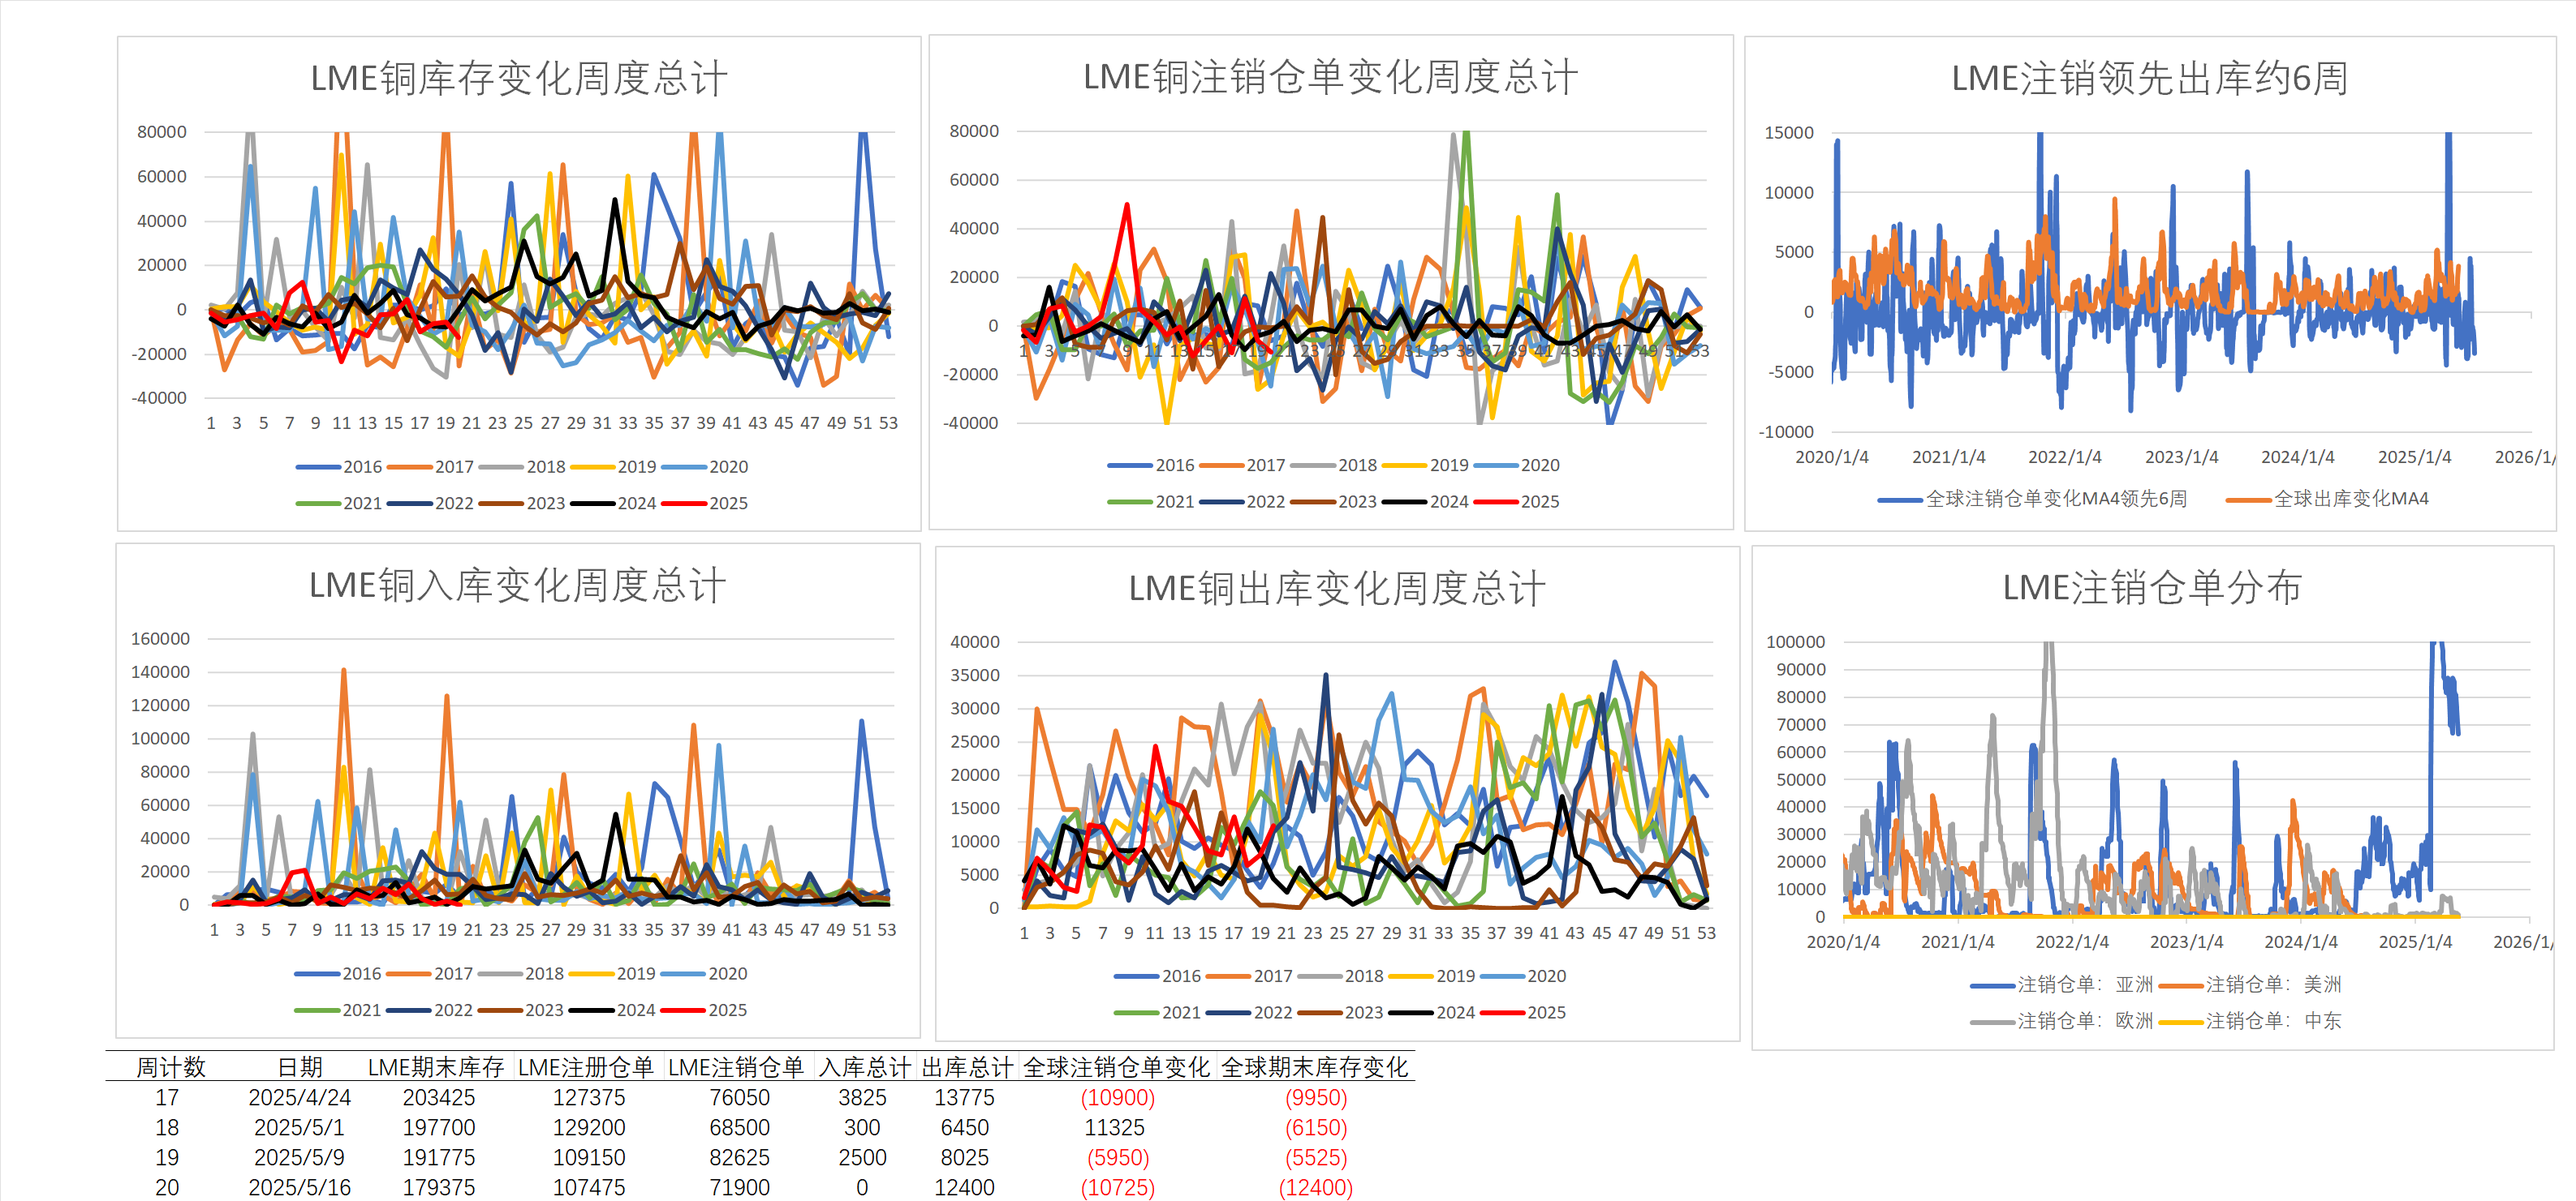
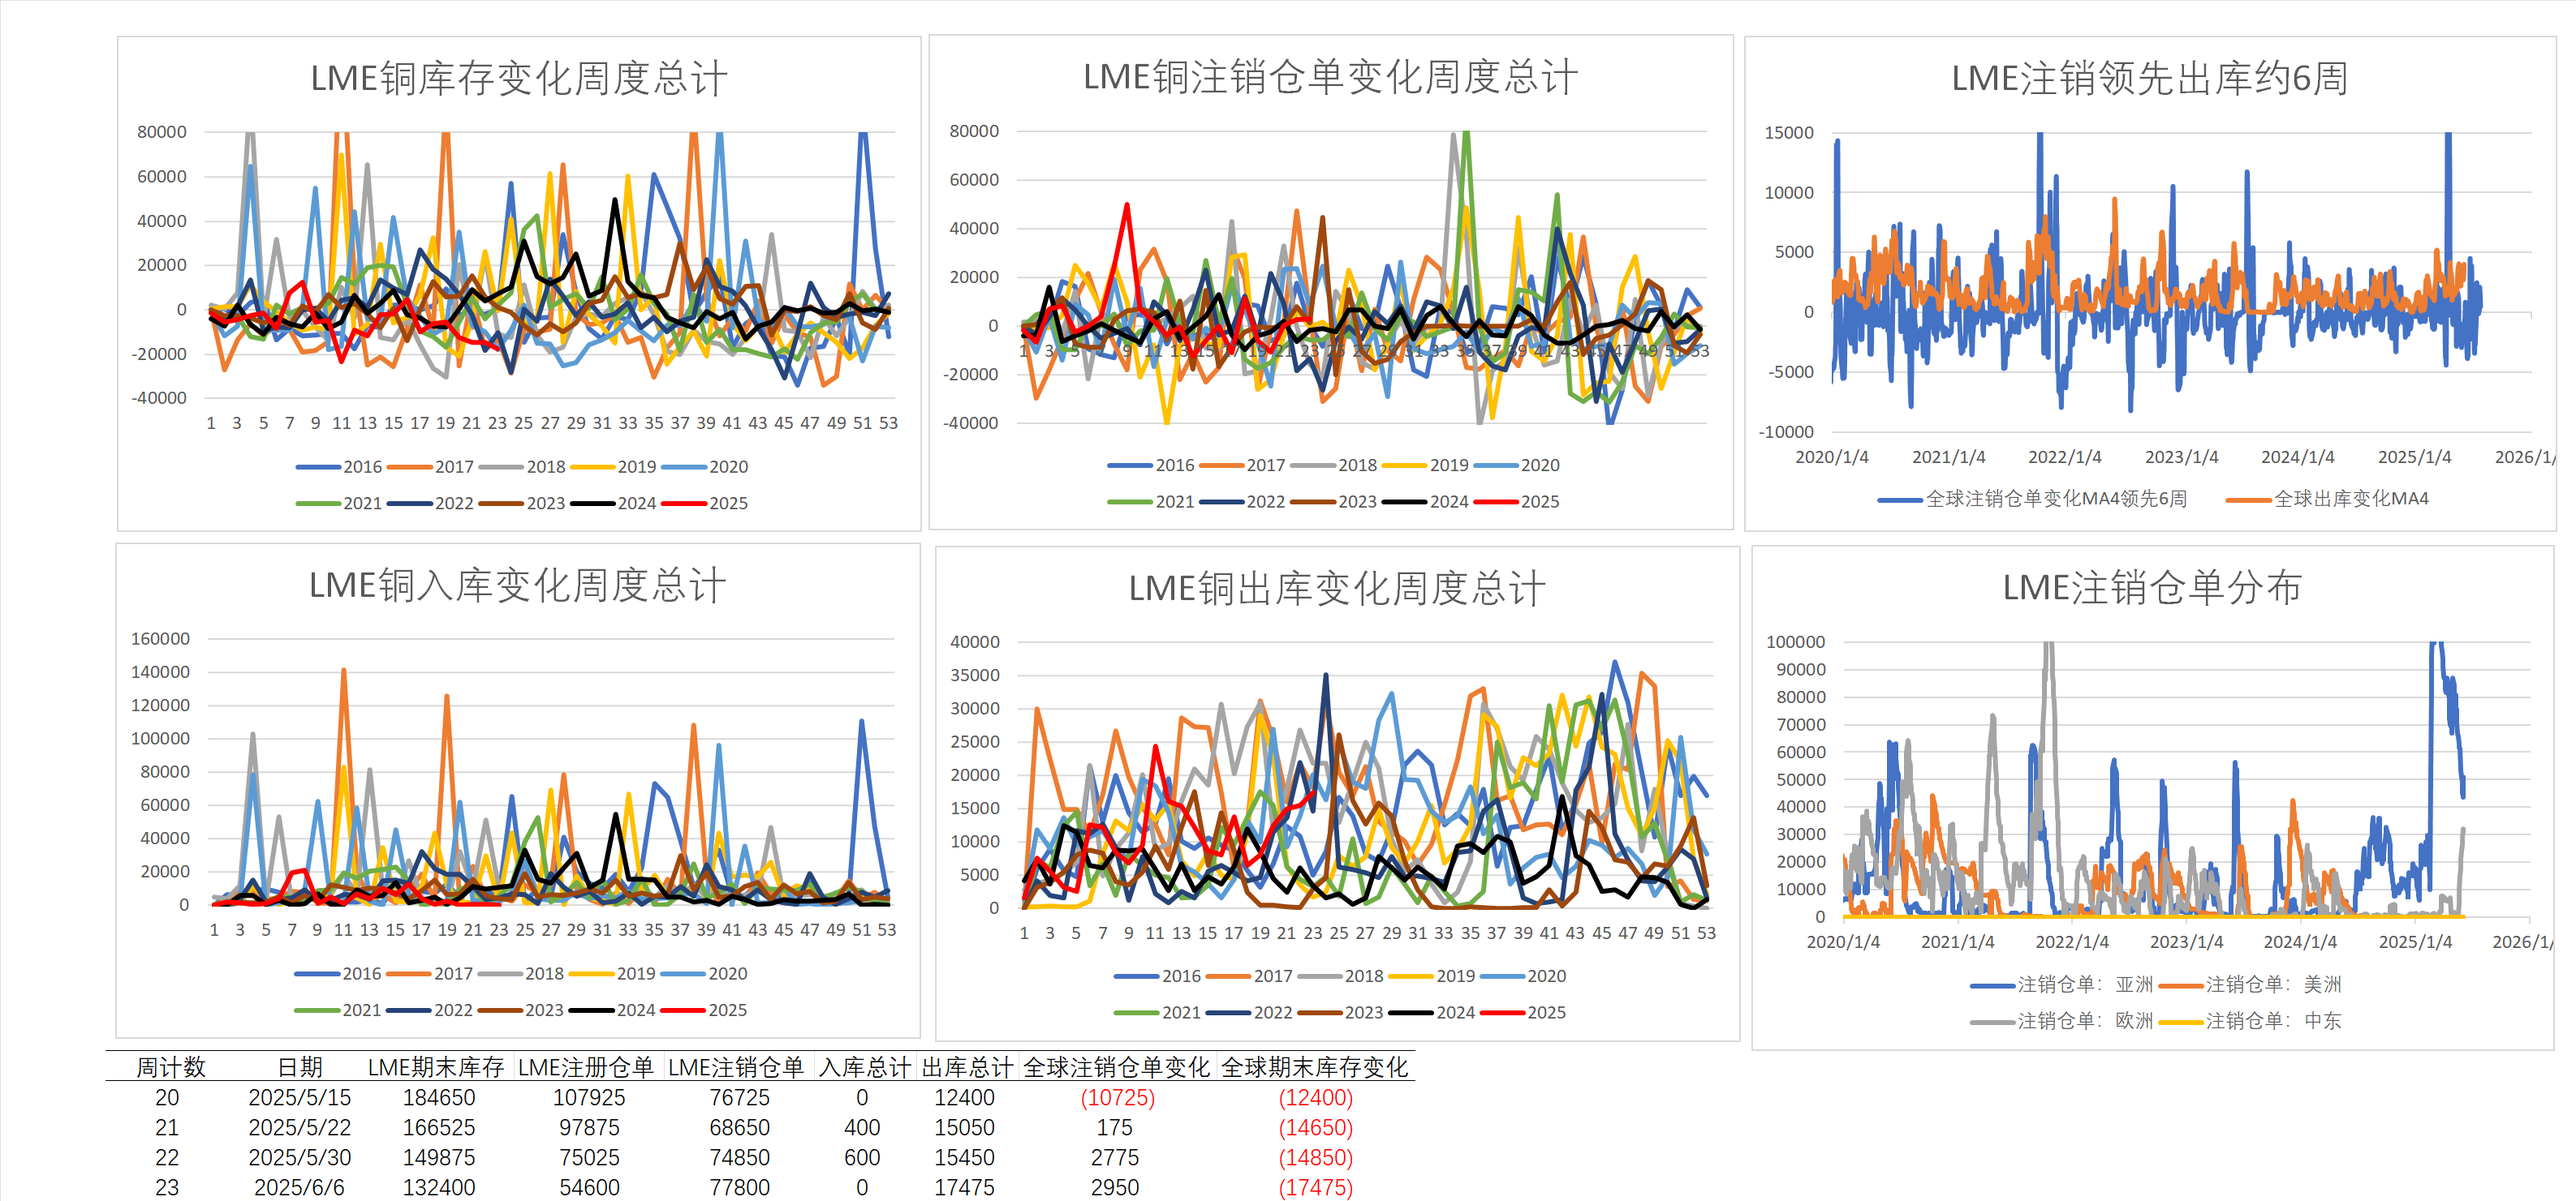
yfwu-main 2025-6-8:17:43:0

diff --git a/铜市场分析20250608.md b/铜市场分析20250608.md
@@ -1,9 +1,9 @@
 详细图表更新： https://yingfengwu-cn.github.io/qztz/
 
-<font color = red>**总结：（电缆）消费延续季节性走弱至同比持平，但是电铜消费同比仍显著正增（原再生低价差仍在延续，废替精明显），本周LME结构和沪伦价差继续显著内弱外强，提示国内下游买盘驱动行情告一段落，等待回调做多。**</font>
+<font color = red>**总结：短期看回调：（电缆）消费延续季节性走弱至同比持平，但是电铜消费同比仍显著正增（原再生低价差仍在延续，废替精明显），本周LME结构和沪伦价差继续显著内弱外强，提示国内下游买盘驱动行情告一段落，等待回调做多。**</font>
 
--<font size = 4> 策略推荐：单边75000以下做多，关注LME逼仓时内外反套机会。<font color = red>中国区周度开始累库，幅度快于去年同期，五锐周度提货点价环比均走弱到均值以下，说明后续消费有走弱趋势，预计下周延续累库；另外需要注意到欧洲地区去库导致LME结构走强带来的挤仓风险。</font>考虑到精铜消费由于废铜偏紧支撑，5月中国区去库5w左右，预计6月将有小幅累库（小于5w），短期逢低做多为主。中期看，下半年要平衡国内库存需要以下任一条件满足即可：1.国内下半年冶炼环比明显减量；2.美国持续维持一个月4-5w超额进口。</font>
-- <font size = 4>周度主要变化简要：<font color = red>本周数据整体偏利空，中国区当周开始累库+电缆开工率回落到同比持平+精废价差到中性水平</font><font color = red>；cmx连续第十周交仓，+0.6w</font>。
+-<font size = 4> 策略推荐：单边75000以下做多，关注LME逼仓时内外反套机会。<font color = red>中国区周度开始累库，幅度快于去年同期，五锐周度提货点价环比均走弱到均值以下，说明后续消费有走弱趋势，预计下周延续累库；另外需要注意到欧洲地区去库导致LME结构走强带来的挤仓风险。</font>考虑到精铜消费由于废铜偏紧支撑，5月中国区去库5w左右，预计6月将有小幅累库（小于5w），短期逢低做多为主。中期看，下半年要平衡国内库存需要以下任一条件满足即可：1.国内下半年冶炼环比明显减量；2.美国维持一个月7-10w超额进口。</font>
+- <font size = 4>周度主要变化简要：<font color = red>本周数据整体偏利空，中国区当周开始累库+电缆开工率回落到同比持平+精废价差到中性水平</font><font color = red>；cmx连续第十一周交仓，+0.6w</font>。
 - **1. 精炼端：本周洋山铜溢价大跌41至14，（主要因为内外价差），同时现货市场明显转淡季迹象。**
 - - 库存：<font color = red>中国区库存环比+1.4w，累库快于往年同期；全球+0.6w，接近去年，弱于往年同期。LME库存-15k；CMX库存+6k</font>。
 - - 精铜杆开工：<font color = red>开工率季节性环比-1%至75%，同比显著正增长。</font>
@@ -31,10 +31,9 @@
 - 
 
 - **基本面概况：**
-全球库存走势较年初预期大幅不及预期，主要因为中国铜消费不及预期，**最大拖累项在国内基建地产和铝代铜**，海外消费正常兑现增量但是大部分国家表现仍然受到了高铜价抑制。
-**当前中国区库存周度去库幅度足以证明九月消费连续第三个月正增长，九月至今去库快，因此阶段性减轻了库存压力。**11月消费水平接近9月，铜管和铜杆均有环比回升，除了旧换新政策支撑外，抢出口也带来了订单前置；供应端进口量11月也提前到达了高位，整体国内年底迎来了供需双旺，2025年国内消费增速大概率高于去年（去年均价高，产业链有所去库），今年拖累板块（地产基建）降幅将收窄，且光伏板块降速后铝代铜替代拖累也将有所走强，家电换新补贴加码；**海外电网AI投资主体坚实，美国消费好+欧洲国防预算提高。目前海外主要铜矿山企业产量指引有所下调，增速由24年80w下调到55w且中资企业超产潜力已经释放，长期供应增速低主线坚实。**预计2025年全球累库18w左右，相较之前市场预期累库30w改善。**
+
 - 
-- **短期逻辑（年内）：**<font color = red>**节奏上看去库见顶，面临逐步走弱的局势（国内淡季）以及关税落地后带来的一次性利多出尽冲击。**。</font>
+- **短期逻辑（年内）：**<font color = red>**节奏上看去库见顶，面临逐步走弱的局势（国内淡季）以及关税落地后带来的一次性利多出尽冲击**。</font>
 - **中期逻辑（2025）：**中期看平衡国内库存较容易，逢低做多思路为主9000美金以下。
 
 <div STYLE="page-break-after: always;"></div>
